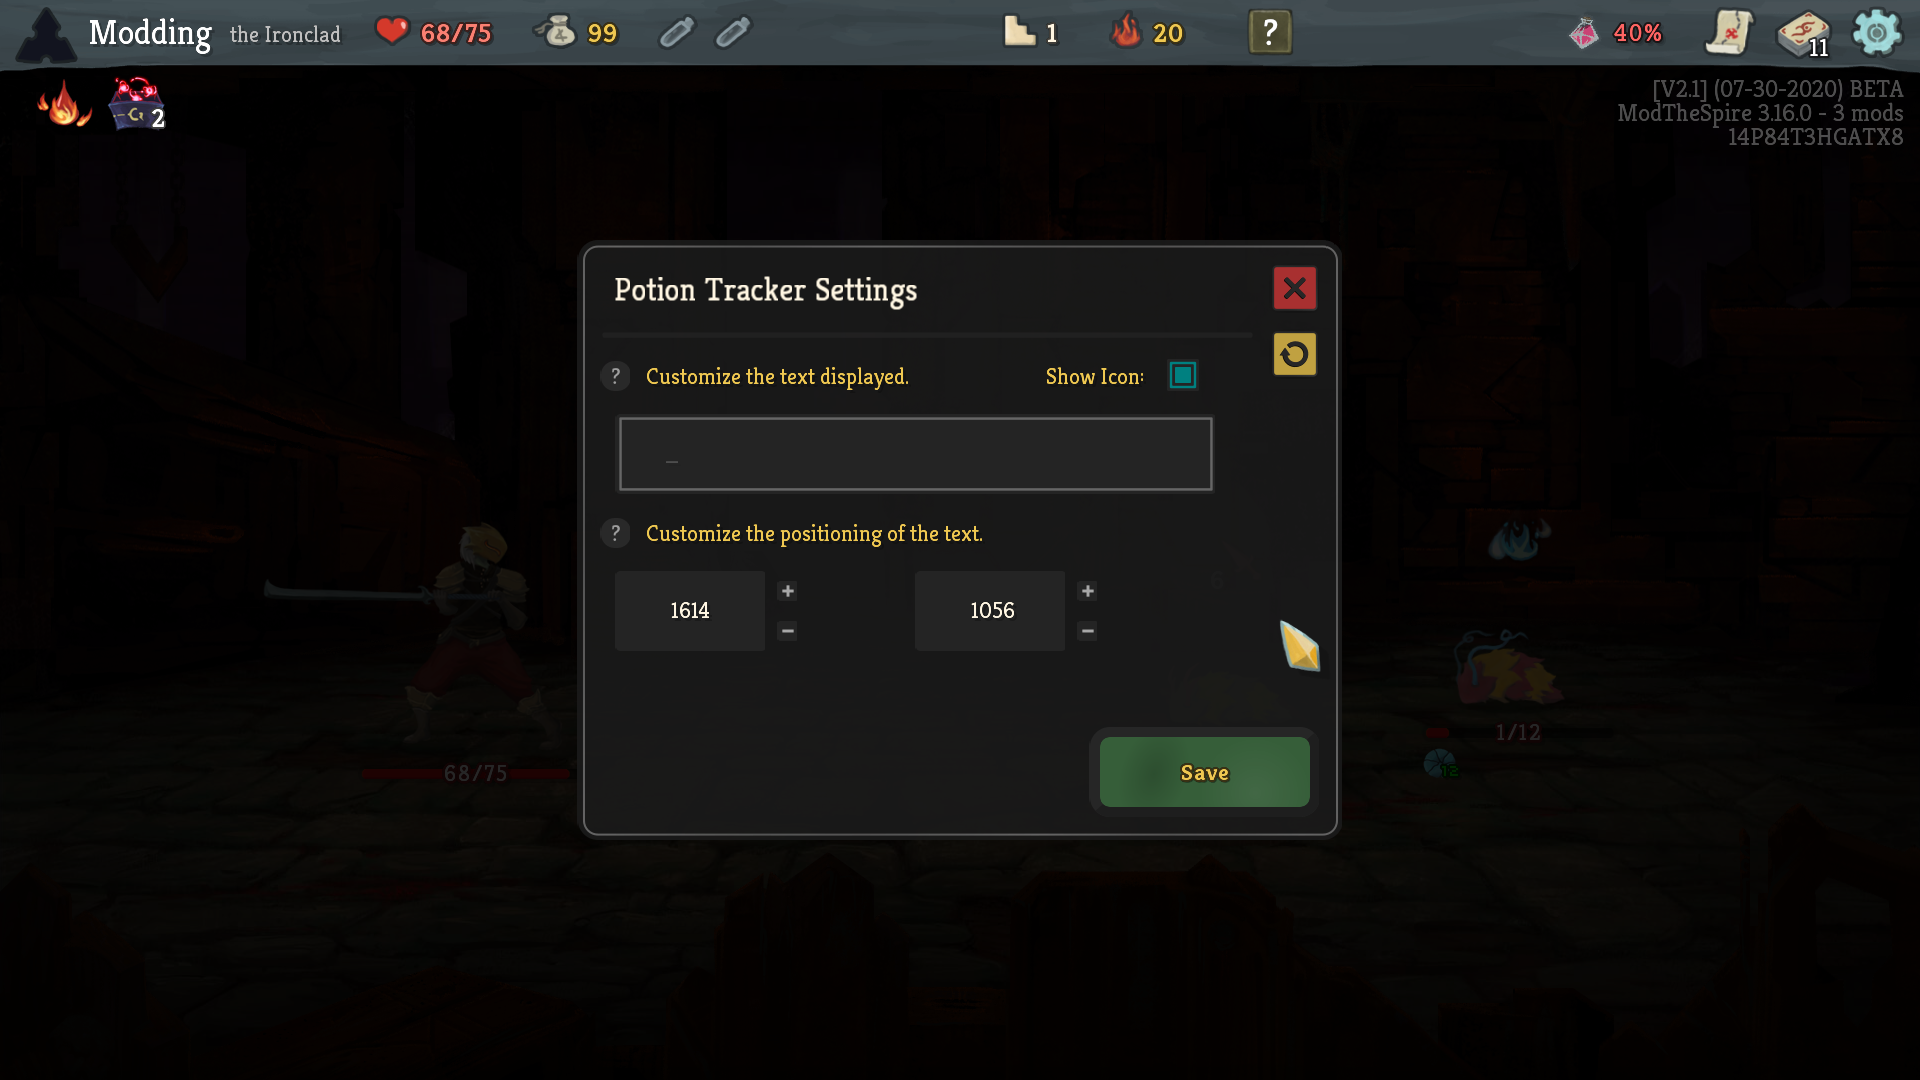
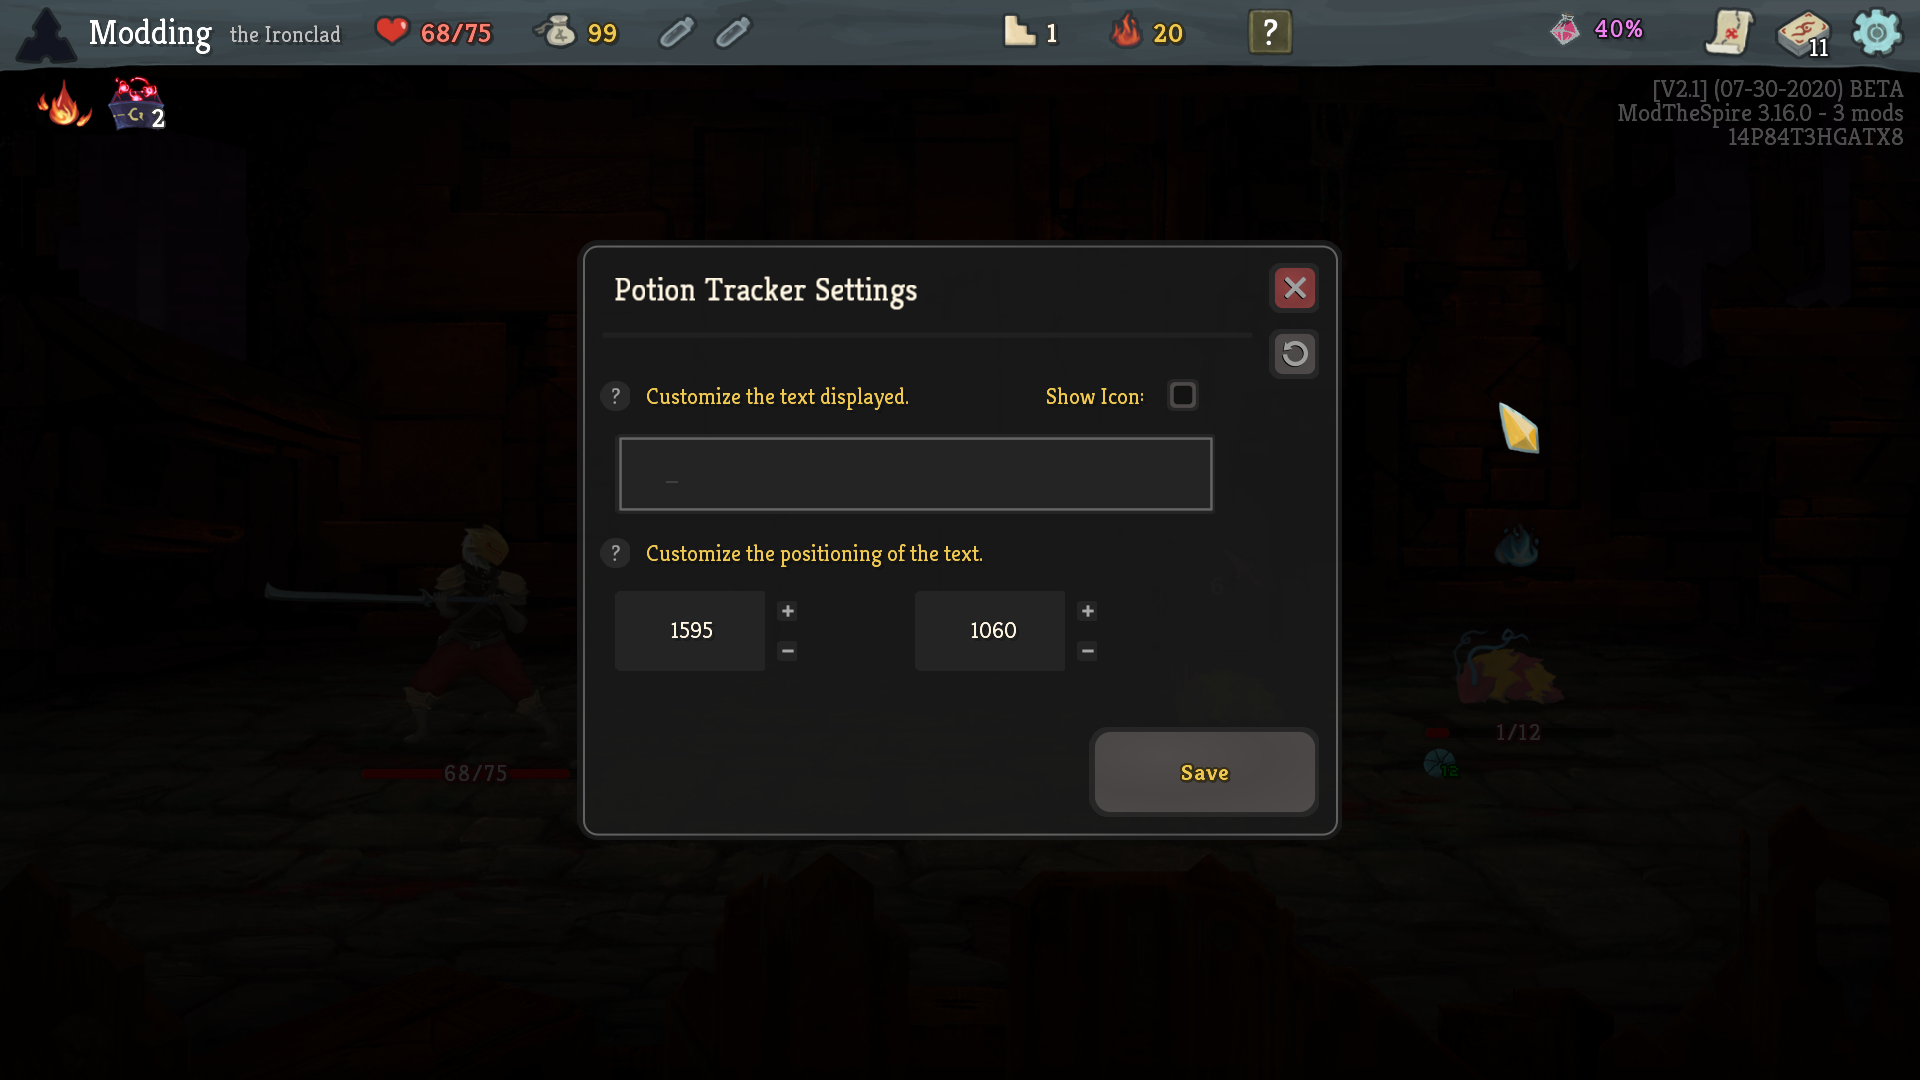
Better widget designs

diff --git a/src/main/java/InfoMod/UI/MediumLabeledButtonWidget.java b/src/main/java/InfoMod/UI/MediumLabeledButtonWidget.java
@@ -1,0 +1,53 @@
+package InfoMod.UI;
+
+import com.badlogic.gdx.graphics.Color;
+import com.badlogic.gdx.graphics.Texture;
+import com.badlogic.gdx.graphics.g2d.BitmapFont;
+import com.badlogic.gdx.graphics.g2d.SpriteBatch;
+import com.megacrit.cardcrawl.core.Settings;
+import com.megacrit.cardcrawl.helpers.FontHelper;
+
+import java.util.function.Consumer;
+
+public class MediumLabeledButtonWidget extends ButtonWidget {
+    private String text;
+    private BitmapFont font = FontHelper.tipHeaderFont;
+    private Color fontColor = Settings.GOLD_COLOR;
+
+    private static final float BUTTON_WIDTH = 230.0f;
+    private static final float BUTTON_HEIGHT = 90.0f;
+    private static final float textOffsetX = 70.0f;
+    private static final float textOffsetY = 54.0f;
+
+    private float additionalTextOffsetX;
+    private float additionalTextOffsetY;
+
+    private static final Texture TEX_NORMAL = new Texture("images/widgets/button_med.png");
+    private static final Texture TEX_HOVERED = new Texture("images/widgets/button_med_hovered.png");
+
+    public MediumLabeledButtonWidget(float x, float y, float additionalTextOffsetX, float additionalTextOffsetY, String text, Consumer<ButtonWidget> onClick) {
+        super(x, y, BUTTON_WIDTH, BUTTON_HEIGHT, onClick);
+
+        this.text = text;
+
+        this.additionalTextOffsetX = additionalTextOffsetX;
+        this.additionalTextOffsetY = additionalTextOffsetY;
+    }
+
+    @Override
+    public void render(SpriteBatch sb) {
+        super.render(sb);
+
+        if (!visible)
+            return;
+
+        sb.setColor(Color.WHITE);
+        if (!hb.hovered)
+            sb.draw(TEX_NORMAL, x, y, BUTTON_WIDTH, BUTTON_HEIGHT);
+        else
+            sb.draw(TEX_HOVERED, x, y, BUTTON_WIDTH, BUTTON_HEIGHT);
+
+        // Render the text
+        FontHelper.renderFontLeftTopAligned(sb, font, text, x + textOffsetX + additionalTextOffsetX, y + textOffsetY + additionalTextOffsetY, fontColor);
+    }
+}

diff --git a/src/main/java/InfoMod/UI/EditableNumberWidget.java b/src/main/java/InfoMod/UI/EditableNumberWidget.java
@@ -104,18 +104,24 @@ public class EditableNumberWidget implements IScreenWidget {
         plusButton = ButtonFactory.buildPlusButton(x + textArea.TEX_WIDTH + TEXT_BUTTON_GAP,
                 y + PLUS_OFFSET_Y,
                 buttonWidget -> {
-                    if (Gdx.input.isKeyPressed(Input.Keys.SHIFT_RIGHT) || Gdx.input.isKeyPressed(Input.Keys.SHIFT_LEFT))
-                        add(10);
-                    else
+                    if (Gdx.input.isKeyPressed(Input.Keys.SHIFT_RIGHT) || Gdx.input.isKeyPressed(Input.Keys.SHIFT_LEFT)) {
+                        if (Gdx.input.isKeyPressed(Input.Keys.CONTROL_LEFT) || Gdx.input.isKeyPressed(Input.Keys.CONTROL_RIGHT))
+                            add(100);
+                        else
+                            add(10);
+                    } else
                         add(1);
                 });
 
         minusButton = ButtonFactory.buildMinusButton(x + textArea.TEX_WIDTH + TEXT_BUTTON_GAP,
                 y + MINUS_OFFSET_Y,
                 buttonWidget -> {
-                    if (Gdx.input.isKeyPressed(Input.Keys.SHIFT_RIGHT) || Gdx.input.isKeyPressed(Input.Keys.SHIFT_LEFT))
-                        add(-10);
-                    else
+                    if (Gdx.input.isKeyPressed(Input.Keys.SHIFT_RIGHT) || Gdx.input.isKeyPressed(Input.Keys.SHIFT_LEFT)) {
+                        if (Gdx.input.isKeyPressed(Input.Keys.CONTROL_LEFT) || Gdx.input.isKeyPressed(Input.Keys.CONTROL_RIGHT))
+                            add(-100);
+                        else
+                            add(-10);
+                    } else
                         add(-1);
                 });
 

diff --git a/src/main/java/InfoMod/UI/MediumLabeledScreen.java b/src/main/java/InfoMod/UI/MediumLabeledScreen.java
@@ -11,7 +11,7 @@ import com.megacrit.cardcrawl.helpers.FontHelper;
 public class MediumLabeledScreen extends AbstractScreen {
     protected String title;
 
-    protected ColorableSmallTextButton confirmButton;
+    protected MediumLabeledButtonWidget confirmButton;
     protected SimpleButtonWidget cancelButton;
 
     protected Color titleColor;
@@ -27,7 +27,7 @@ public class MediumLabeledScreen extends AbstractScreen {
     protected static final float ABSOLUTE_CONTENT_RIGHT_X = 1335.5f;
     protected static final float ABSOLUTE_CONTENT_BOTTOM_Y = 247.0f;
     protected static final float ABSOLUTE_CONTENT_TITLE_TOP_Y = 833.0f;
-    protected static final float ABSOLUTE_CONTENT_BODY_TOP_Y = ABSOLUTE_CONTENT_TITLE_TOP_Y - TITLE_AREA_HEIGHT - 5.0f;
+    protected static final float ABSOLUTE_CONTENT_BODY_TOP_Y = ABSOLUTE_CONTENT_TITLE_TOP_Y - TITLE_AREA_HEIGHT - 25.0f;
 
     protected static final float CONTENT_PADDING_SM = 16.0f;
     protected static final float CONTENT_PADDING_MD = 31.0f;
@@ -53,13 +53,12 @@ public class MediumLabeledScreen extends AbstractScreen {
         this.titleFont = FontHelper.turnNumFont;
 
 
-        confirmButton = new ColorableSmallTextButton(
+        confirmButton = new MediumLabeledButtonWidget(
                 ABSOLUTE_CONTENT_RIGHT_X - CONTENT_PADDING_SM - CONFIRM_BUTTON_WIDTH,
                 ABSOLUTE_CONTENT_BOTTOM_Y + CONTENT_PADDING_SM,
                 21.0f,
                 -2.0f,
                 "Save",
-                RenderingUtils.OJB_GREEN_BUTTON_COLOR,
                 button -> { saveAndClose(); });
 
         cancelButton = (SimpleButtonWidget) ButtonFactory.buildCloseButton(

diff --git a/src/main/java/InfoMod/UI/ButtonFactory.java b/src/main/java/InfoMod/UI/ButtonFactory.java
@@ -6,11 +6,11 @@ import java.util.function.Consumer;
 
 public class ButtonFactory {
     static SimpleButtonWidget buildCloseButton(float x, float y, Consumer<ButtonWidget> onClick) {
-        return new SimpleButtonWidget(x, y, 50.0f, 50.0f, new Texture("images/x_button.png"), new Texture("images/x_button_pressed.png"), onClick);
+        return new SimpleButtonWidget(x, y, 50.0f, 50.0f, new Texture("images/widgets/button_close.png"), new Texture("images/widgets/button_close_hovered.png"), onClick);
     }
 
     static SimpleButtonWidget buildResetButton(float x, float y, Consumer<ButtonWidget> onClick) {
-        return new SimpleButtonWidget(x, y, 50.0f, 50.0f, new Texture("images/button_reset.png"), new Texture("images/button_reset_hover.png"), onClick);
+        return new SimpleButtonWidget(x, y, 50.0f, 50.0f, new Texture("images/widgets/button_reset.png"), new Texture("images/widgets/button_reset_hovered.png"), onClick);
     }
 
     static SimpleButtonWidget buildPlusButton(float x, float y, Consumer<ButtonWidget> onClick) {

diff --git a/src/main/java/InfoMod/UI/CustomizePotionChanceScreen.java b/src/main/java/InfoMod/UI/CustomizePotionChanceScreen.java
@@ -120,7 +120,7 @@ public class CustomizePotionChanceScreen extends MediumLabeledScreen {
                 HELP_SIZE,
                 new Texture("images/help_tip.png"),
                 "Position Help",
-                "The bottom left of the screen is (0, 0), while the top right is (1920, 1080). These (x,y) coordinates will point to the top left most point of the text. NL NL You can finely adjust the values using the plus/minus buttons next to the input. NL NL Hold #bShift while clicking these buttons to adjust by +10 or -10."
+                "The bottom left of the screen is (0, 0), while the top right is (1920, 1080). These (x,y) coordinates will point to the top left most point of the text. NL NL You can finely adjust the values using the plus/minus buttons next to the input. NL NL Hold #bShift while clicking these buttons to adjust by +10 or -10. Hold #bCTRL+SHIFT while clicking to adjust by +100 or -100."
         );
 
         // Checkbox

diff --git a/src/main/java/InfoMod/UI/SimpleCheckboxWidget.java b/src/main/java/InfoMod/UI/SimpleCheckboxWidget.java
@@ -12,8 +12,8 @@ public class SimpleCheckboxWidget extends ButtonWidget {
     private boolean enabled;
     private Consumer<SimpleCheckboxWidget> onEnable, onDisable;
 
-    private static final Texture TEX_UNCHECKED = new Texture("images/checkbox_normal.png");
-    private static final Texture TEX_CHECKED = new Texture("images/checkbox_checked.png");
+    private static final Texture TEX_UNCHECKED = new Texture("images/widgets/checkbox.png");
+    private static final Texture TEX_CHECKED = new Texture("images/widgets/checkbox_checked.png");
 
     public static final float WIDTH = 32.0f;
     public static final float HEIGHT = 32.0f;
